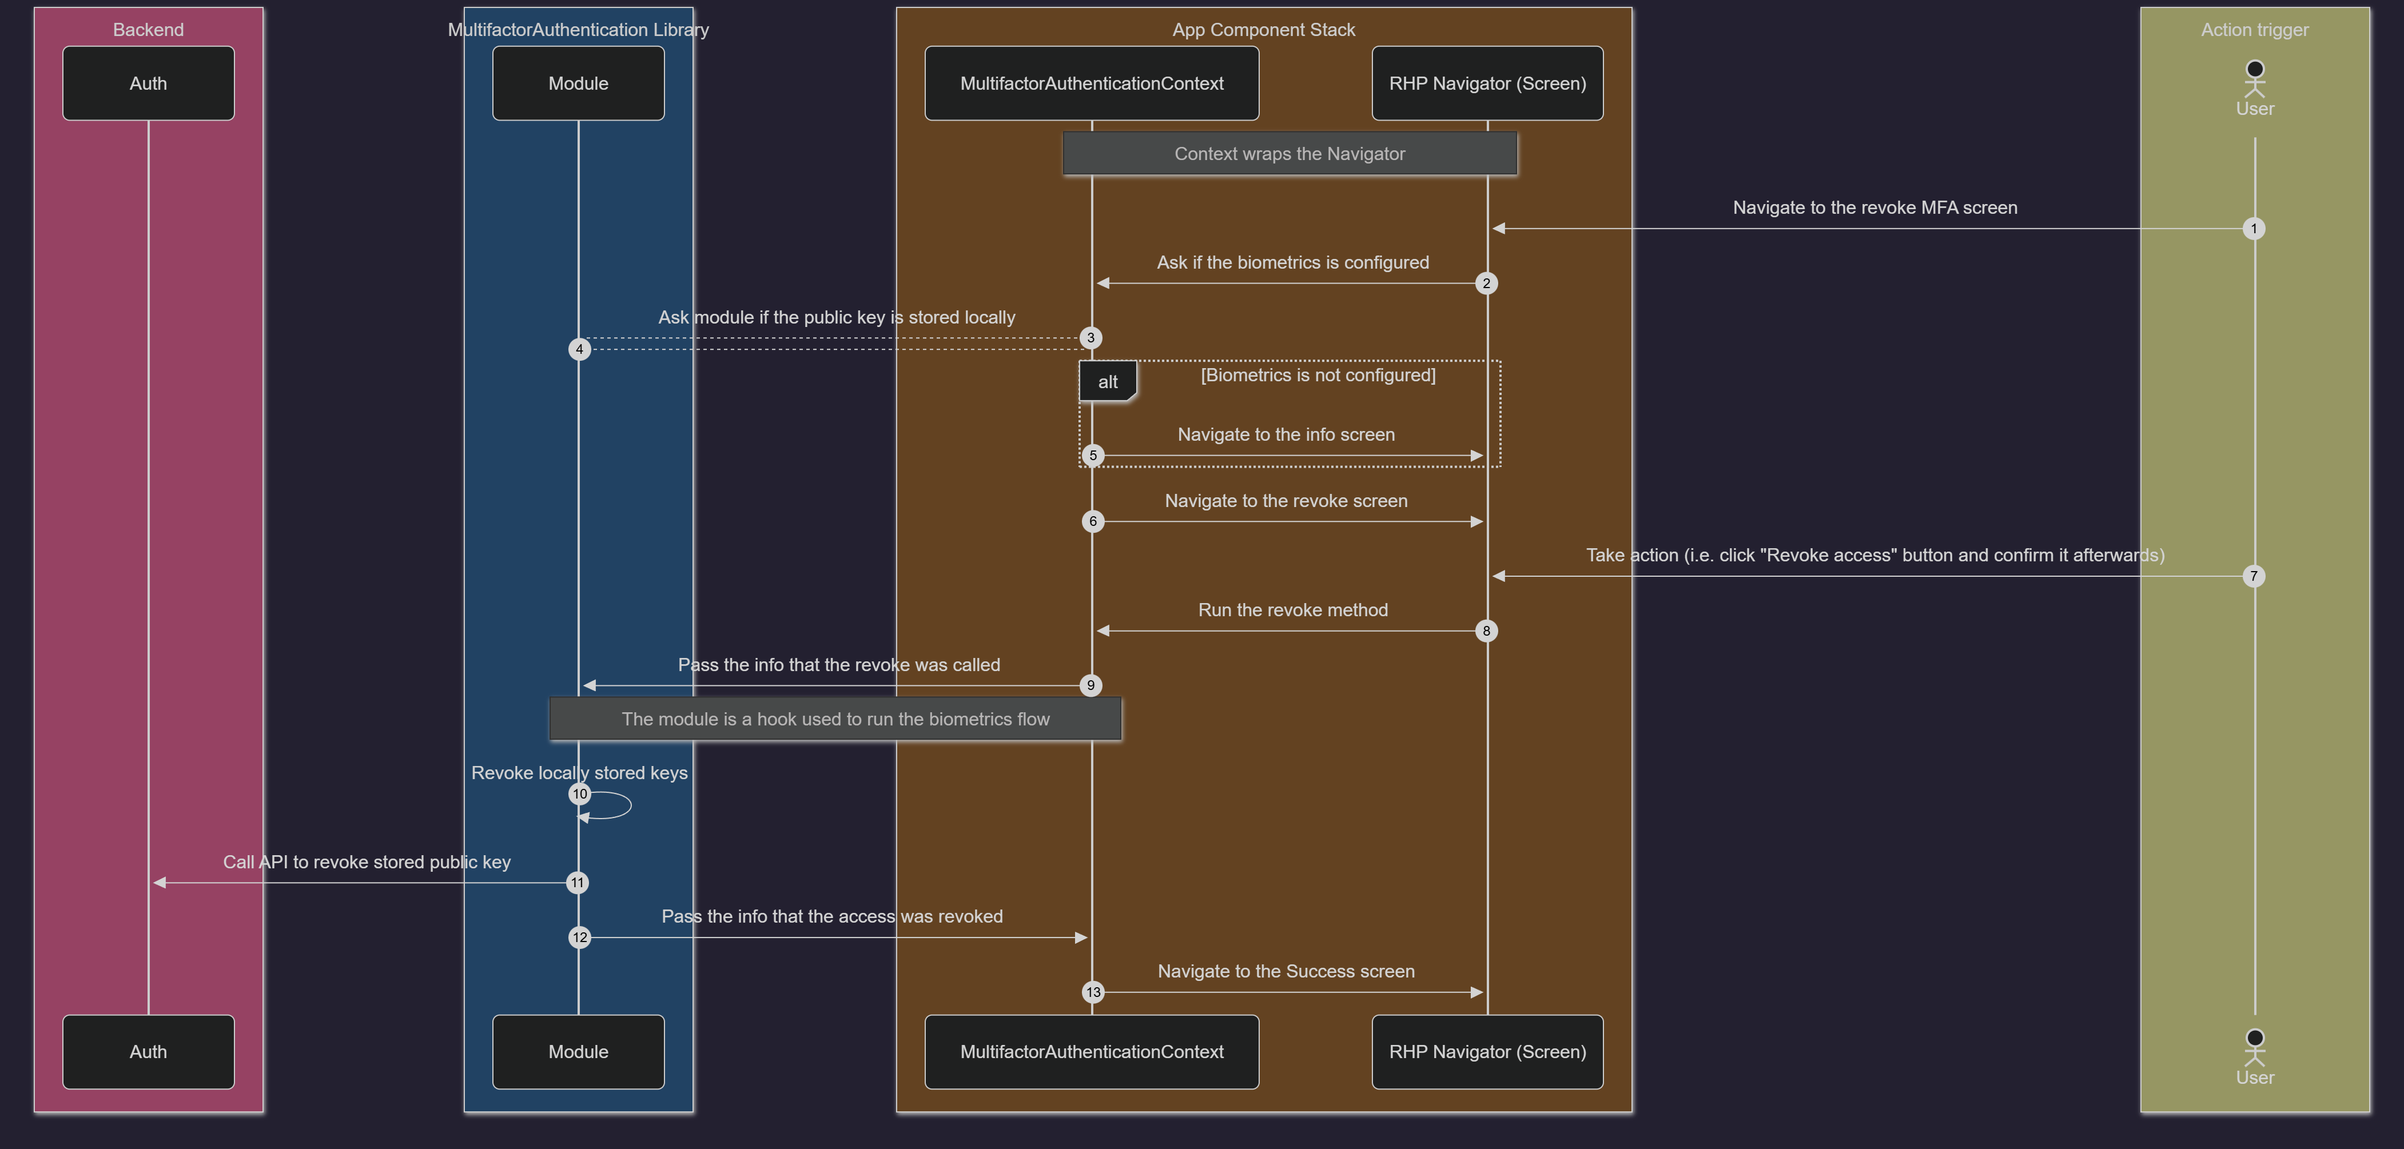
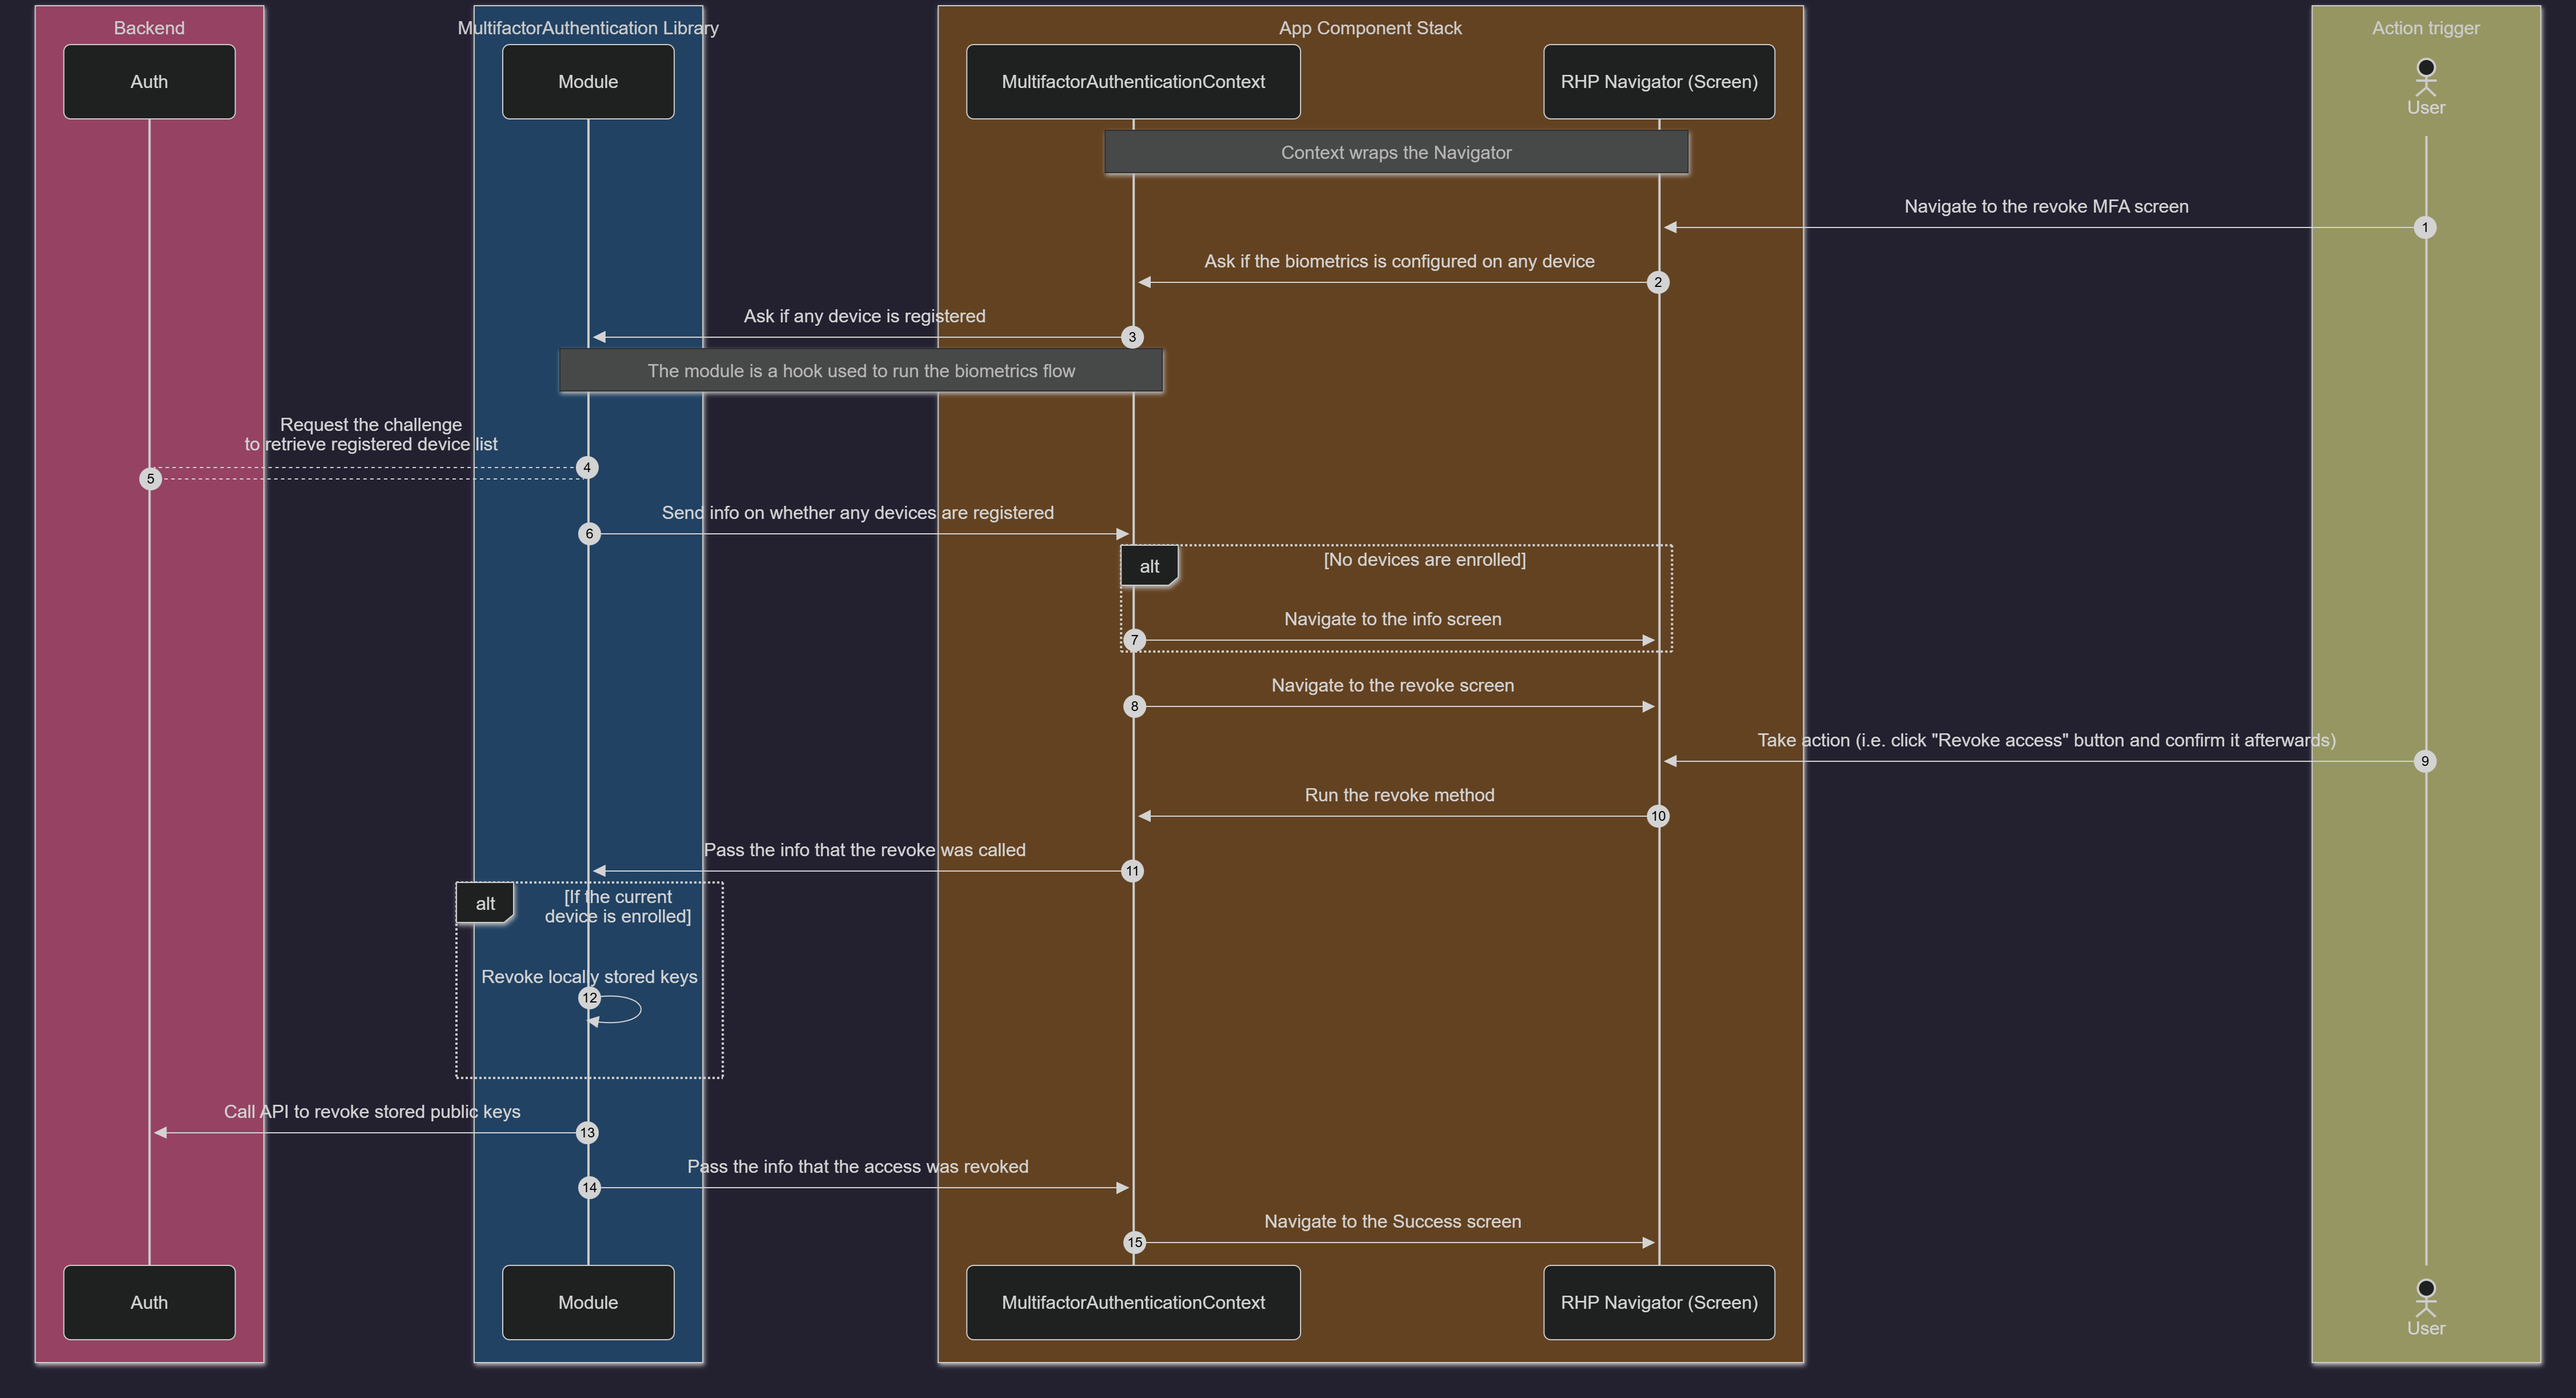
Update release four diagram

diff --git a/structure.md b/structure.md
@@ -297,19 +297,23 @@ sequenceDiagram
 
     Note over MFACTX,RHPRHP: Context wraps the Navigator
     User->>RHPRHP: Navigate to the revoke MFA screen
-    RHPRHP->>MFACTX: Ask if the biometrics is configured
-    MFACTX-->Module: Ask module if the public key is stored locally
-    Module-->MFACTX: ;
-    alt Biometrics is not configured
+    RHPRHP->>MFACTX: Ask if the biometrics is configured on any device
+    MFACTX->>Module: Ask if any device is registered
+        Note over MFACTX,Module: The module is a hook used to run the biometrics flow
+    Module-->Server: Request the challenge<br/> to retrieve registered device list
+    Server-->Module: ;
+    Module->>MFACTX: Send info on whether any devices are registered
+    alt No devices are enrolled
         MFACTX->>RHPRHP: Navigate to the info screen
     end
     MFACTX->>RHPRHP: Navigate to the revoke screen
     User->>RHPRHP: Take action (i.e. click "Revoke access" button and confirm it afterwards)
     RHPRHP->>MFACTX: Run the revoke method
     MFACTX->>Module: Pass the info that the revoke was called
-        Note over MFACTX,Module: The module is a hook used to run the biometrics flow
+    alt If the current device is enrolled
     Module->>Module: Revoke locally stored keys
-        Module->>Server: Call API to revoke stored public key
+    end
+        Module->>Server: Call API to revoke stored public keys
     Module->>MFACTX: Pass the info that the access was revoked
     MFACTX->>RHPRHP: Navigate to the Success screen
 ```
